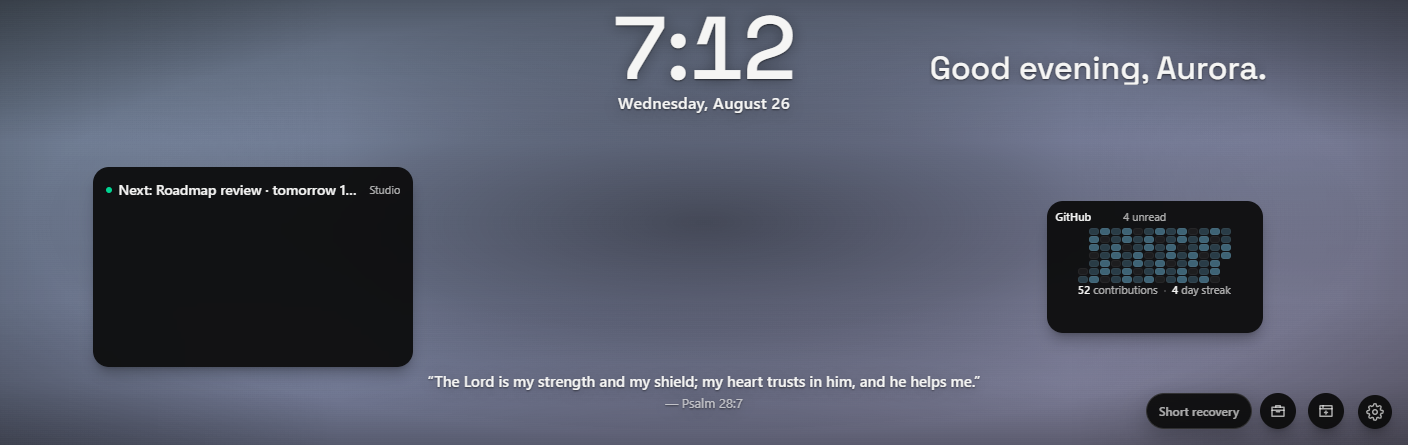
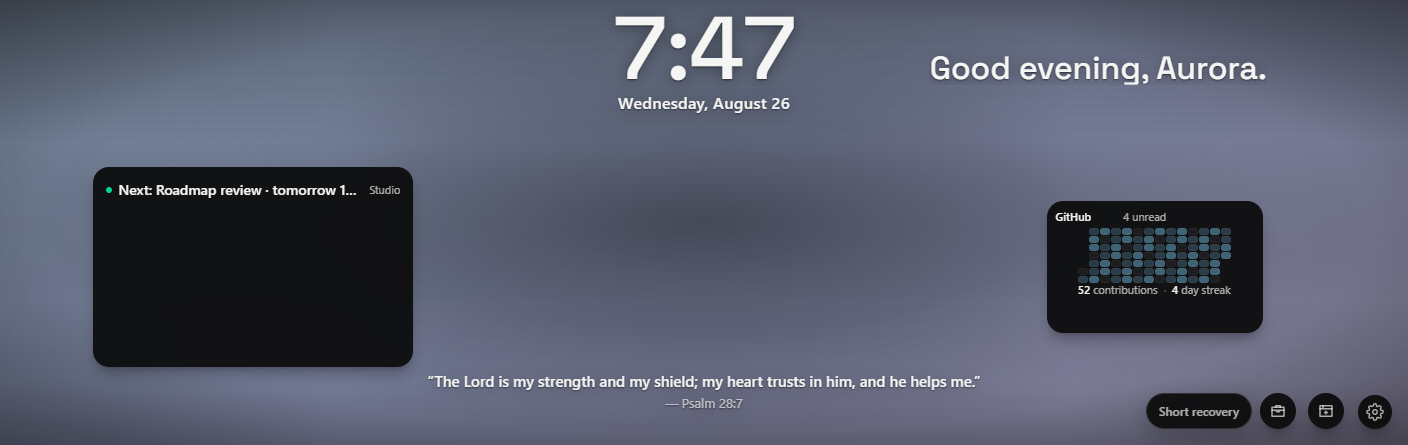
docs: verify canvas polish and stack interactions

Changed region(s): [[0.4688, 0.0292, 0.5625, 0.2045]]

diff --git a/docs/superpowers/reports/AURORA-CANVAS-POLISH-AND-STACK-INTERACTIONS-QA.md b/docs/superpowers/reports/AURORA-CANVAS-POLISH-AND-STACK-INTERACTIONS-QA.md
@@ -1,0 +1,38 @@
+# Aurora Canvas Polish & Stack Interactions QA
+
+**Date:** 2026-08-26  
+**Branch:** `feat/aurora-2-observatory`  
+**Verdict:** Verified  
+**Store state:** Untouched
+
+## Outcome
+
+The approved canvas polish is implemented without changing layout, connector, credential, permission, or cache authority. Free Search and Quick Links are intrinsic photo-first controls rather than cards. Weather stores and displays a city plus region label such as `Dallas, GA`, with a separate Clear action. Focus keeps its prompt above the saved item and uses a short reduced-motion-safe celebration instead of the old completion message. Compact Status shows only service names and dots, with service-specific hover and keyboard context.
+
+Stack grip movement now reorders members in place and cannot eject a member onto the canvas. Arrow ordering and explicit removal remain available. Stack paging controls overlay the fixed member footprint, so stacks and ordinary widgets share the same 8px edge reach. Top and bottom dock bands use `clamp(60px, 10vh, 78px)`.
+
+The previously reported attention-signal blockers are closed. Calendar attention is permission-current, the attention ledger resets when a source is disabled or its identity changes, and the context panel avoids visible canvas and fixed-control owners.
+
+## Automated evidence
+
+- Full Vitest gate at product commit `c815108b89cd82d3f639d3577b7e73ceaad3d455`: 212 files and 3,396 tests passed.
+- Focused review-fix gate: 7 files and 381 tests passed, covering Settings, Focus, Status, stack inspector, canvas geometry, and renderer ownership.
+- Production build: 263 modules transformed successfully with exact tracked provenance.
+- Exact preview build: 263 modules transformed successfully with browser permissions enabled only for disposable evidence.
+- Production widget catalog at `d6643429674f9962349059f3b404771b948dcac9`: 31 captures passed and all 34 approved targets remained pinned. The owner-visible canvas now asserts intrinsic free Search and Quick Links while retaining their authored stack faces.
+- Canvas polish Chromium witness at `098dde3a86f20641bcd665c91de446793ff066fa`: frameless utilities, `Dallas, GA`, persistent Focus prompt, completion celebration, compact Status context, grip reorder, arrow reorder, and 8px stack edge reach passed with zero console or page errors.
+- Attention Chromium witness at `d6643429674f9962349059f3b404771b948dcac9`: hover, keyboard, touch, Settings, multi-tab, desktop, compact, collision, and permission behavior passed.
+- Dock Chromium witness at `098dde3a86f20641bcd665c91de446793ff066fa`: 2 captures, 0 writes, 0 runtime errors, 0 failed requests, and 0 failures.
+- UI recovery Chromium witness at `098dde3a86f20641bcd665c91de446793ff066fa`: modal removal, intrinsic typography, Calendar Settings consolidation, one atomic save, 1600x900, and 1408x445 passed.
+
+Accepted canvas polish evidence is in [`canvas-polish/acceptance`](../qa/canvas-polish/acceptance). The refreshed owner-visible production image is [`owner-visible-canvas.png`](../catalog/widget-redesign/production/owner-visible-canvas.png).
+
+## Bounded review
+
+The one bounded Critical and Important review found one interaction regression in the new stack row CSS: pointer input on the arrow and Remove controls was disabled while making rows valid grip targets. The fix restored those controls and added a real Chromium arrow-order assertion. The same fix made compact Status tooltips choose an above-trigger position when the below-trigger position would cross the viewport edge. Rereview found no remaining Critical or Important issue in this packet.
+
+The production catalog initially failed because its previous owner-visible contract still required free Search and Quick Links to be tier cards. The harness was corrected to assert the approved intrinsic presentations, including Search's accessible label and repeated Quick Link marks. This was an evidence-authority correction, not a product rollback.
+
+## Manual ceilings
+
+Automation does not claim native Chrome optional-permission prompt interaction, live private connector data, real screen-reader speech, physical touch behavior, operating-system timezone changes, or genuine sleep and wake transitions. MacBook testing remains the next owner-visible environment check after the feature branch is fetched. No merge, Chrome Web Store upload, edit, save, submission, publication, distribution, or rollout occurred.

diff --git a/docs/superpowers/aurora-2/ROADMAP.md b/docs/superpowers/aurora-2/ROADMAP.md
@@ -207,6 +207,7 @@ The owner-approved authority is [`2026-08-17-aurora-named-layouts-live-canvas-de
 | Two-axis docks | Verified with 5px owner trial | Every top/bottom dock member owns independent safe X/Y coordinates inside a transparent responsive band. The original absent-Y baseline remains immutable evidence for DY-P1. The owner-approved refinement moves the parent bands to 5px from every viewport edge while preserving storage absence, order, containment, and internal legacy margins. Exact 600x800 and 1408x445 Chromium witnesses passed with boot-stable layouts bytes and zero writes or failures. | [`2026-08-22-aurora-two-axis-dock-placement-implementation.md`](../plans/2026-08-22-aurora-two-axis-dock-placement-implementation.md); [`2026-08-22-aurora-two-axis-dock-placement-design.md`](../specs/2026-08-22-aurora-two-axis-dock-placement-design.md); [`TWO-AXIS-DOCKS-QA.md`](../reports/TWO-AXIS-DOCKS-QA.md); [`DOCK-INSET-REFINEMENT-QA.md`](../reports/DOCK-INSET-REFINEMENT-QA.md); `1e9a1af` |
 | Shared widget frames | SF-P1 verified and owner accepted; SF-P2 owner visual gate | Exact Compact 216x132, Standard 320x200, and Full 460x284 frames; authored per-widget compositions; fixed stack footprint; intrinsic stack faces; scalable catalog and admission gate. SF-P2 migrated the remaining 25 Framed identities, and its one fix/rereview cycle is Ready with 189/189 exact-build Chromium captures and no open Critical or Important issue. SF-P3 remains blocked until the owner accepts or refines the catalog. | [`2026-08-22-aurora-shared-widget-frames-and-stack-composition-design.md`](../specs/2026-08-22-aurora-shared-widget-frames-and-stack-composition-design.md); [`2026-08-22-aurora-sf-p1-frame-foundation-reference-pair.md`](../plans/2026-08-22-aurora-sf-p1-frame-foundation-reference-pair.md); [`2026-08-23-aurora-sf-p2-framed-catalog-migration.md`](../plans/2026-08-23-aurora-sf-p2-framed-catalog-migration.md); [`SHARED-FRAMES-SF-P1-QA.md`](../reports/SHARED-FRAMES-SF-P1-QA.md); [`SHARED-FRAMES-SF-P2-QA.md`](../reports/SHARED-FRAMES-SF-P2-QA.md) |
 | Complete widget redesign | Verified | All 34 approved presentation targets covering 36 source identities are production verified. The final 30-image catalog proves the five required mixed stacks across three panel colors, and the stabilized code, authority, TypeScript, build, storage, request, and runtime gates are green. Owner review of the installed extension is next. | [`2026-08-23-aurora-complete-widget-redesign-production.md`](../plans/2026-08-23-aurora-complete-widget-redesign-production.md); [`WIDGET-REDESIGN-PRODUCTION-QA.md`](../reports/WIDGET-REDESIGN-PRODUCTION-QA.md); [`production`](../catalog/widget-redesign/production) |
+| Canvas polish and stack interactions | Verified | Intrinsic Search and Quick Links, region-aware Weather labels, persistent Focus prompt and celebration, compact Status context, in-place grip and arrow stack ordering, equal edge reach, reduced dock depth, and current attention-signal authority are verified in exact Chromium. The approved feature branch is ready for the owner MacBook trial. | [`2026-08-26-aurora-canvas-polish-and-stack-interactions.md`](../plans/2026-08-26-aurora-canvas-polish-and-stack-interactions.md); [`AURORA-CANVAS-POLISH-AND-STACK-INTERACTIONS-QA.md`](../reports/AURORA-CANVAS-POLISH-AND-STACK-INTERACTIONS-QA.md); [`canvas-polish`](../qa/canvas-polish/acceptance) |
 
 The first approved continuous sequence and DY-P1 are complete. Flow, widget stacks, Weather enrichment, the Expansion platform, browser-native widgets, Work connectors, At-a-glance additions, and two-axis docks are verified. The full redesign catalog is owner approved after Quick Links, Greeting, and Calendar corrections. Production Task 1 has a green focused gate, and the remaining widget-family packets are active. Future catalog candidates remain researched backlog; stocks remain deferred.
 

diff --git a/docs/superpowers/aurora-2/STATUS.md b/docs/superpowers/aurora-2/STATUS.md
@@ -1,11 +1,13 @@
 # Aurora 2 Status
 
-**Updated:** 2026-08-23<br>
+**Updated:** 2026-08-26<br>
 **Branch:** `feat/aurora-2-observatory`<br>
 **Worktree:** `D:\DEV\Chrome plugin-aurora-2`<br>
-**Current wave:** Complete widget redesign production<br>
-**Last verified packet:** `Complete widget redesign production` - all 34 approved targets covering 36 source identities, a composed 3,278-test stabilized gate, TypeScript, 253-module production build, 15 catalog contracts, and 30 exact mixed-stack Chromium captures<br>
-**Current packet:** None; owner visual review of the installed extension is next
+**Current wave:** Canvas polish and stack interactions<br>
+**Last verified packet:** `Canvas polish and stack interactions` - 3,396 green tests, a 263-module build, 31 production catalog captures, exact attention and dock witnesses, and focused 1600x900 plus 1408x445 Chromium acceptance<br>
+**Current packet:** Owner MacBook trial, then higher-quality image direction before premium and subscription strategy
+
+- **Canvas polish and stack interactions (2026-08-26, VERIFIED):** Free Search and Quick Links are restored as intrinsic photo-first controls; Weather preserves `Dallas, GA` style region labels and separates Clear; Focus keeps its prompt, saved item, check control, and short reduced-motion-safe celebration; compact Status is names and dots with service-specific hover and focus context. Stack grip movement reorders in place, arrows and Remove remain interactive, controls overlay the fixed stack footprint, stacks reach the same 8px edge as ordinary widgets, and dock depth is reduced to `clamp(60px, 10vh, 78px)`. The bounded review found and closed one pointer-control regression and added bottom-edge-safe Status tooltip placement. Final evidence includes 212 files / 3,396 tests, a 263-module build, 31 exact production catalog captures, exact attention, dock, UI recovery, and canvas polish Chromium witnesses, zero accepted runtime errors, and the report at `docs/superpowers/reports/AURORA-CANVAS-POLISH-AND-STACK-INTERACTIONS-QA.md`. The feature branch is approved for GitHub push and MacBook testing; merge and Store state remain untouched.
 
 - **Complete widget redesign production Task 8 (2026-08-23, VERIFIED):** The exact production catalog pins all 34 approved presentation targets and renders Weather plus On This Day, GitHub plus Unified Calendar, Tasks plus Notes, Clock plus Quote, and Jira plus Sentry in dark, light, and saturated panels with both faces visible. The 30/30 accepted Chromium replay measured exact Compact, Standard, and Full frames, an 11px visible text floor, no clipping or internal scroll owner, 15 layouts-only facing writes, one approved Weather alert cache write, a byte-stable legacy `layout`, zero runtime errors, and zero failed or unexpected requests. Visual review caught a synthetic legacy-Calendar fixture and then a real 10px Full weekday floor; the fixture was corrected to model explicit consolidation and the product floor was fixed RED-first. The stabilized suite produced 3,277 green tests plus the corrected 5/5 authority family, TypeScript, 15/15 Node catalog contracts, and a clean 253-module production build. Report: `docs/superpowers/reports/WIDGET-REDESIGN-PRODUCTION-QA.md`. The protected checkout and Chrome Web Store remain untouched.
 
